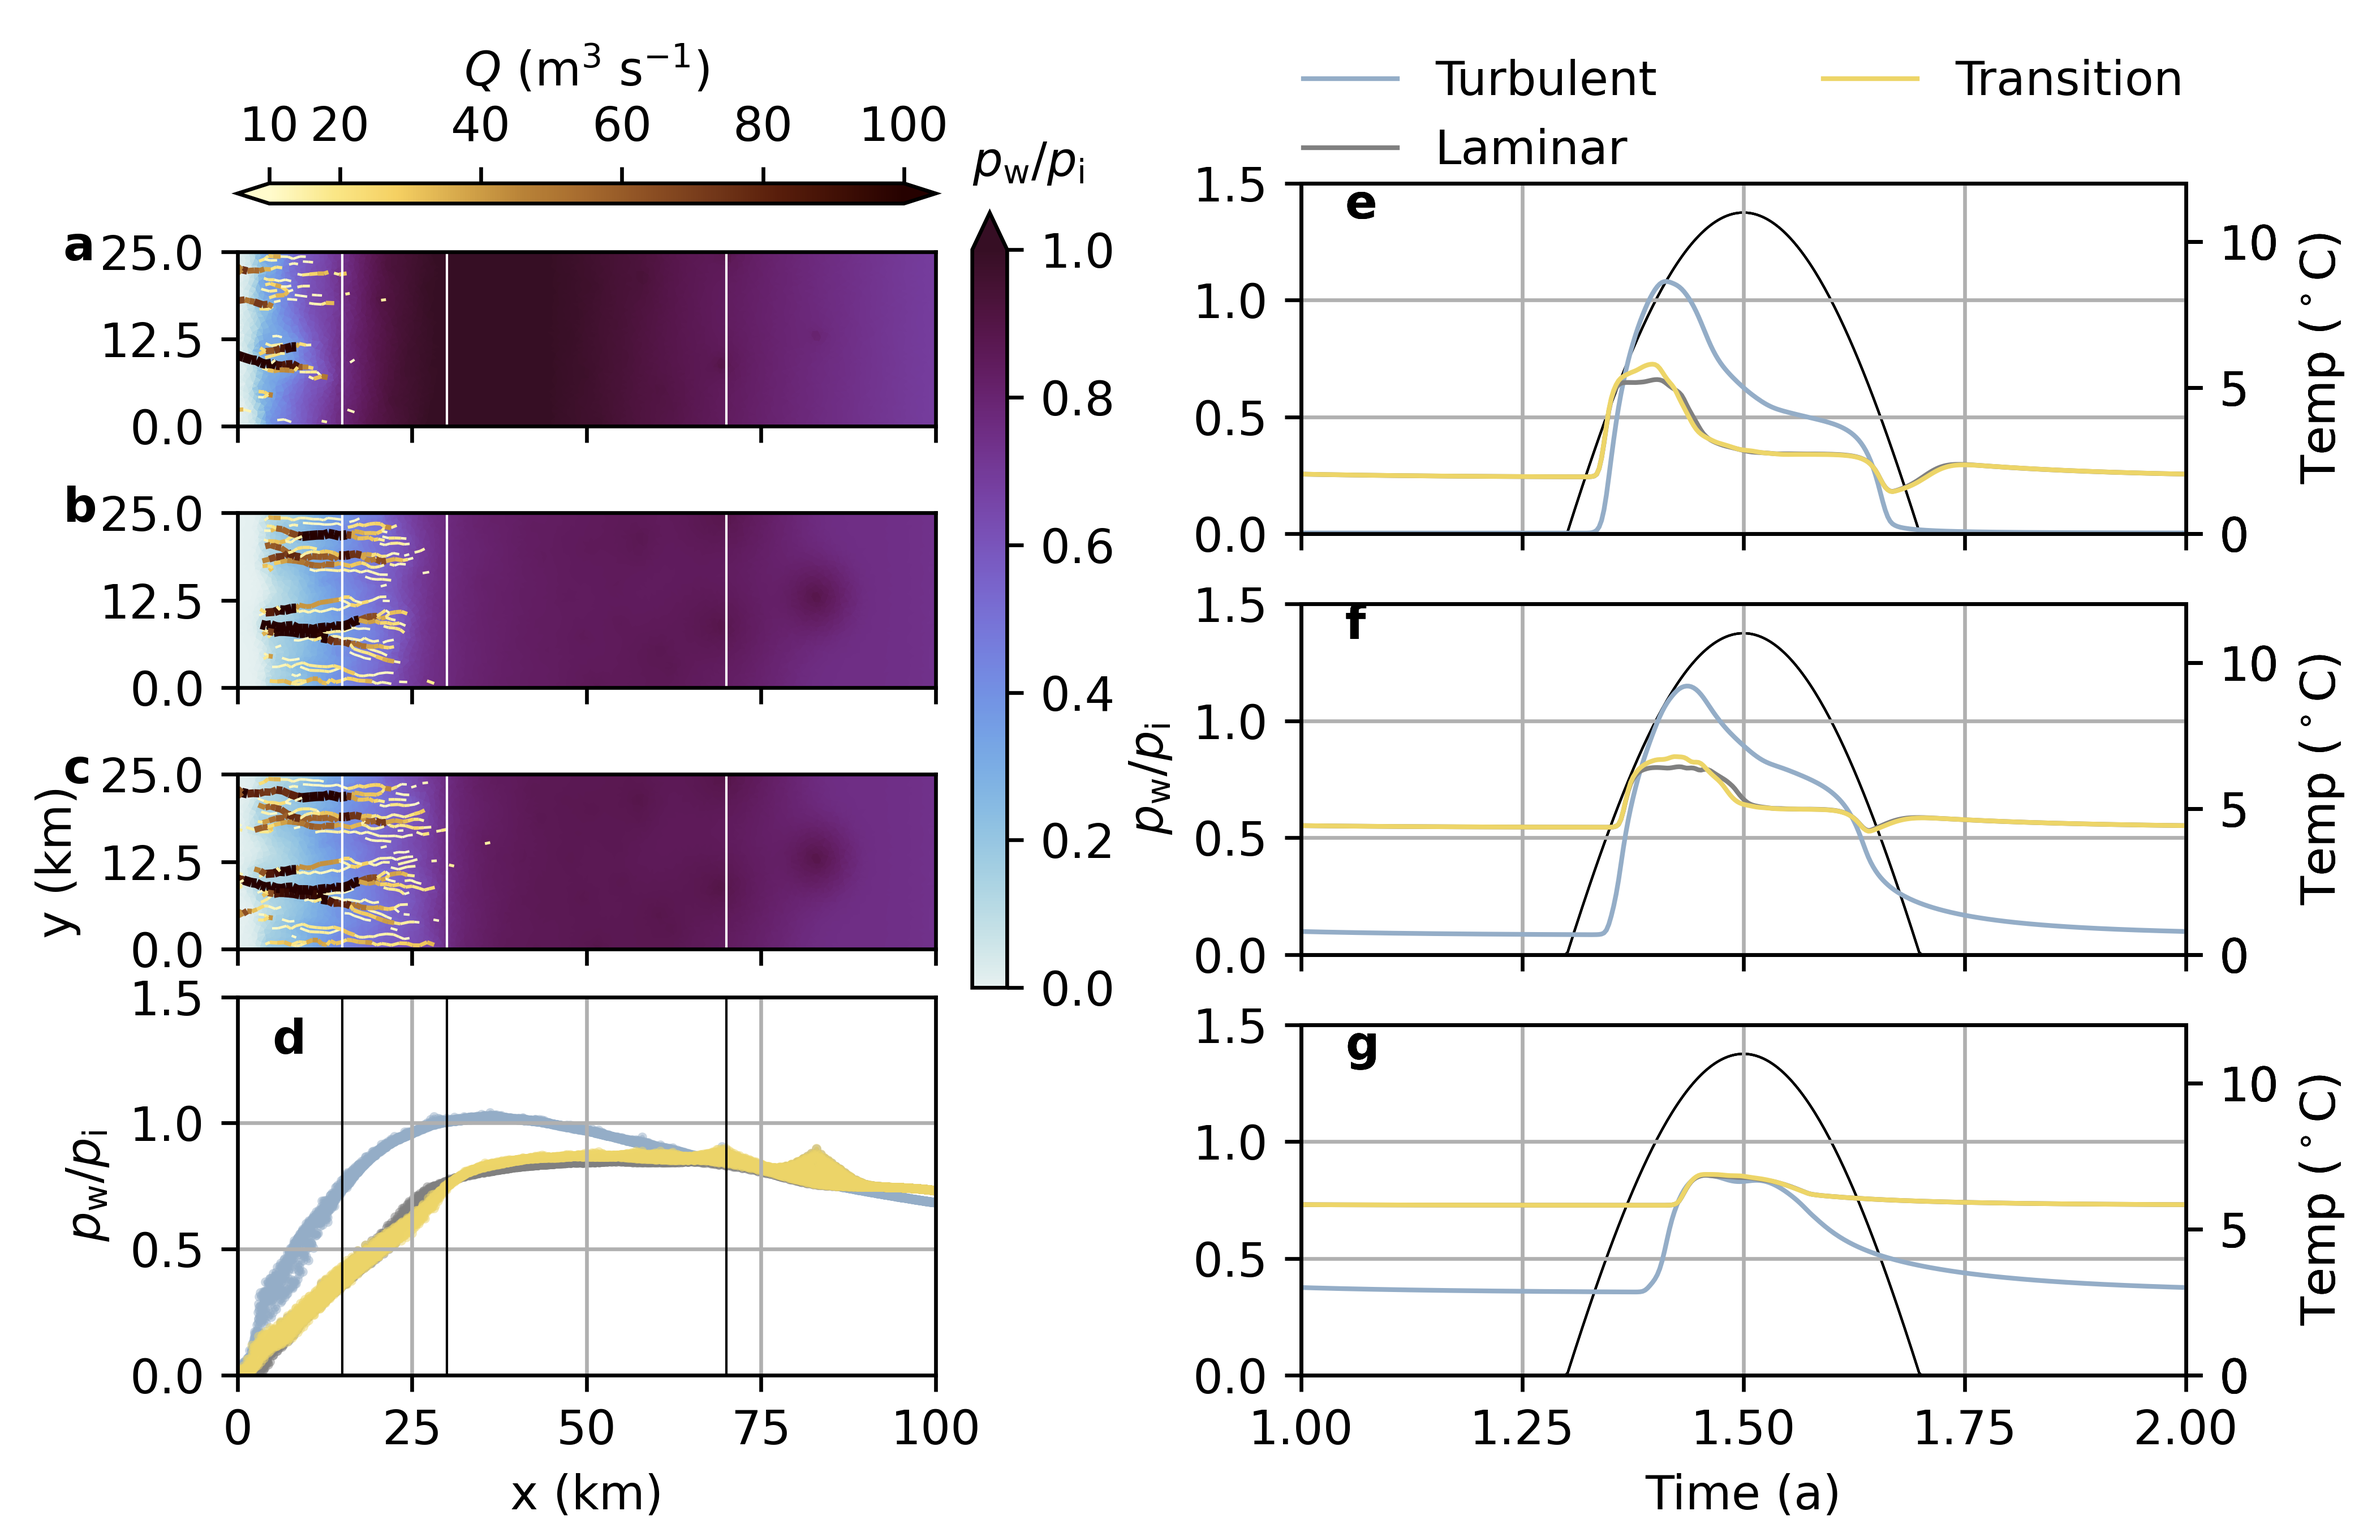
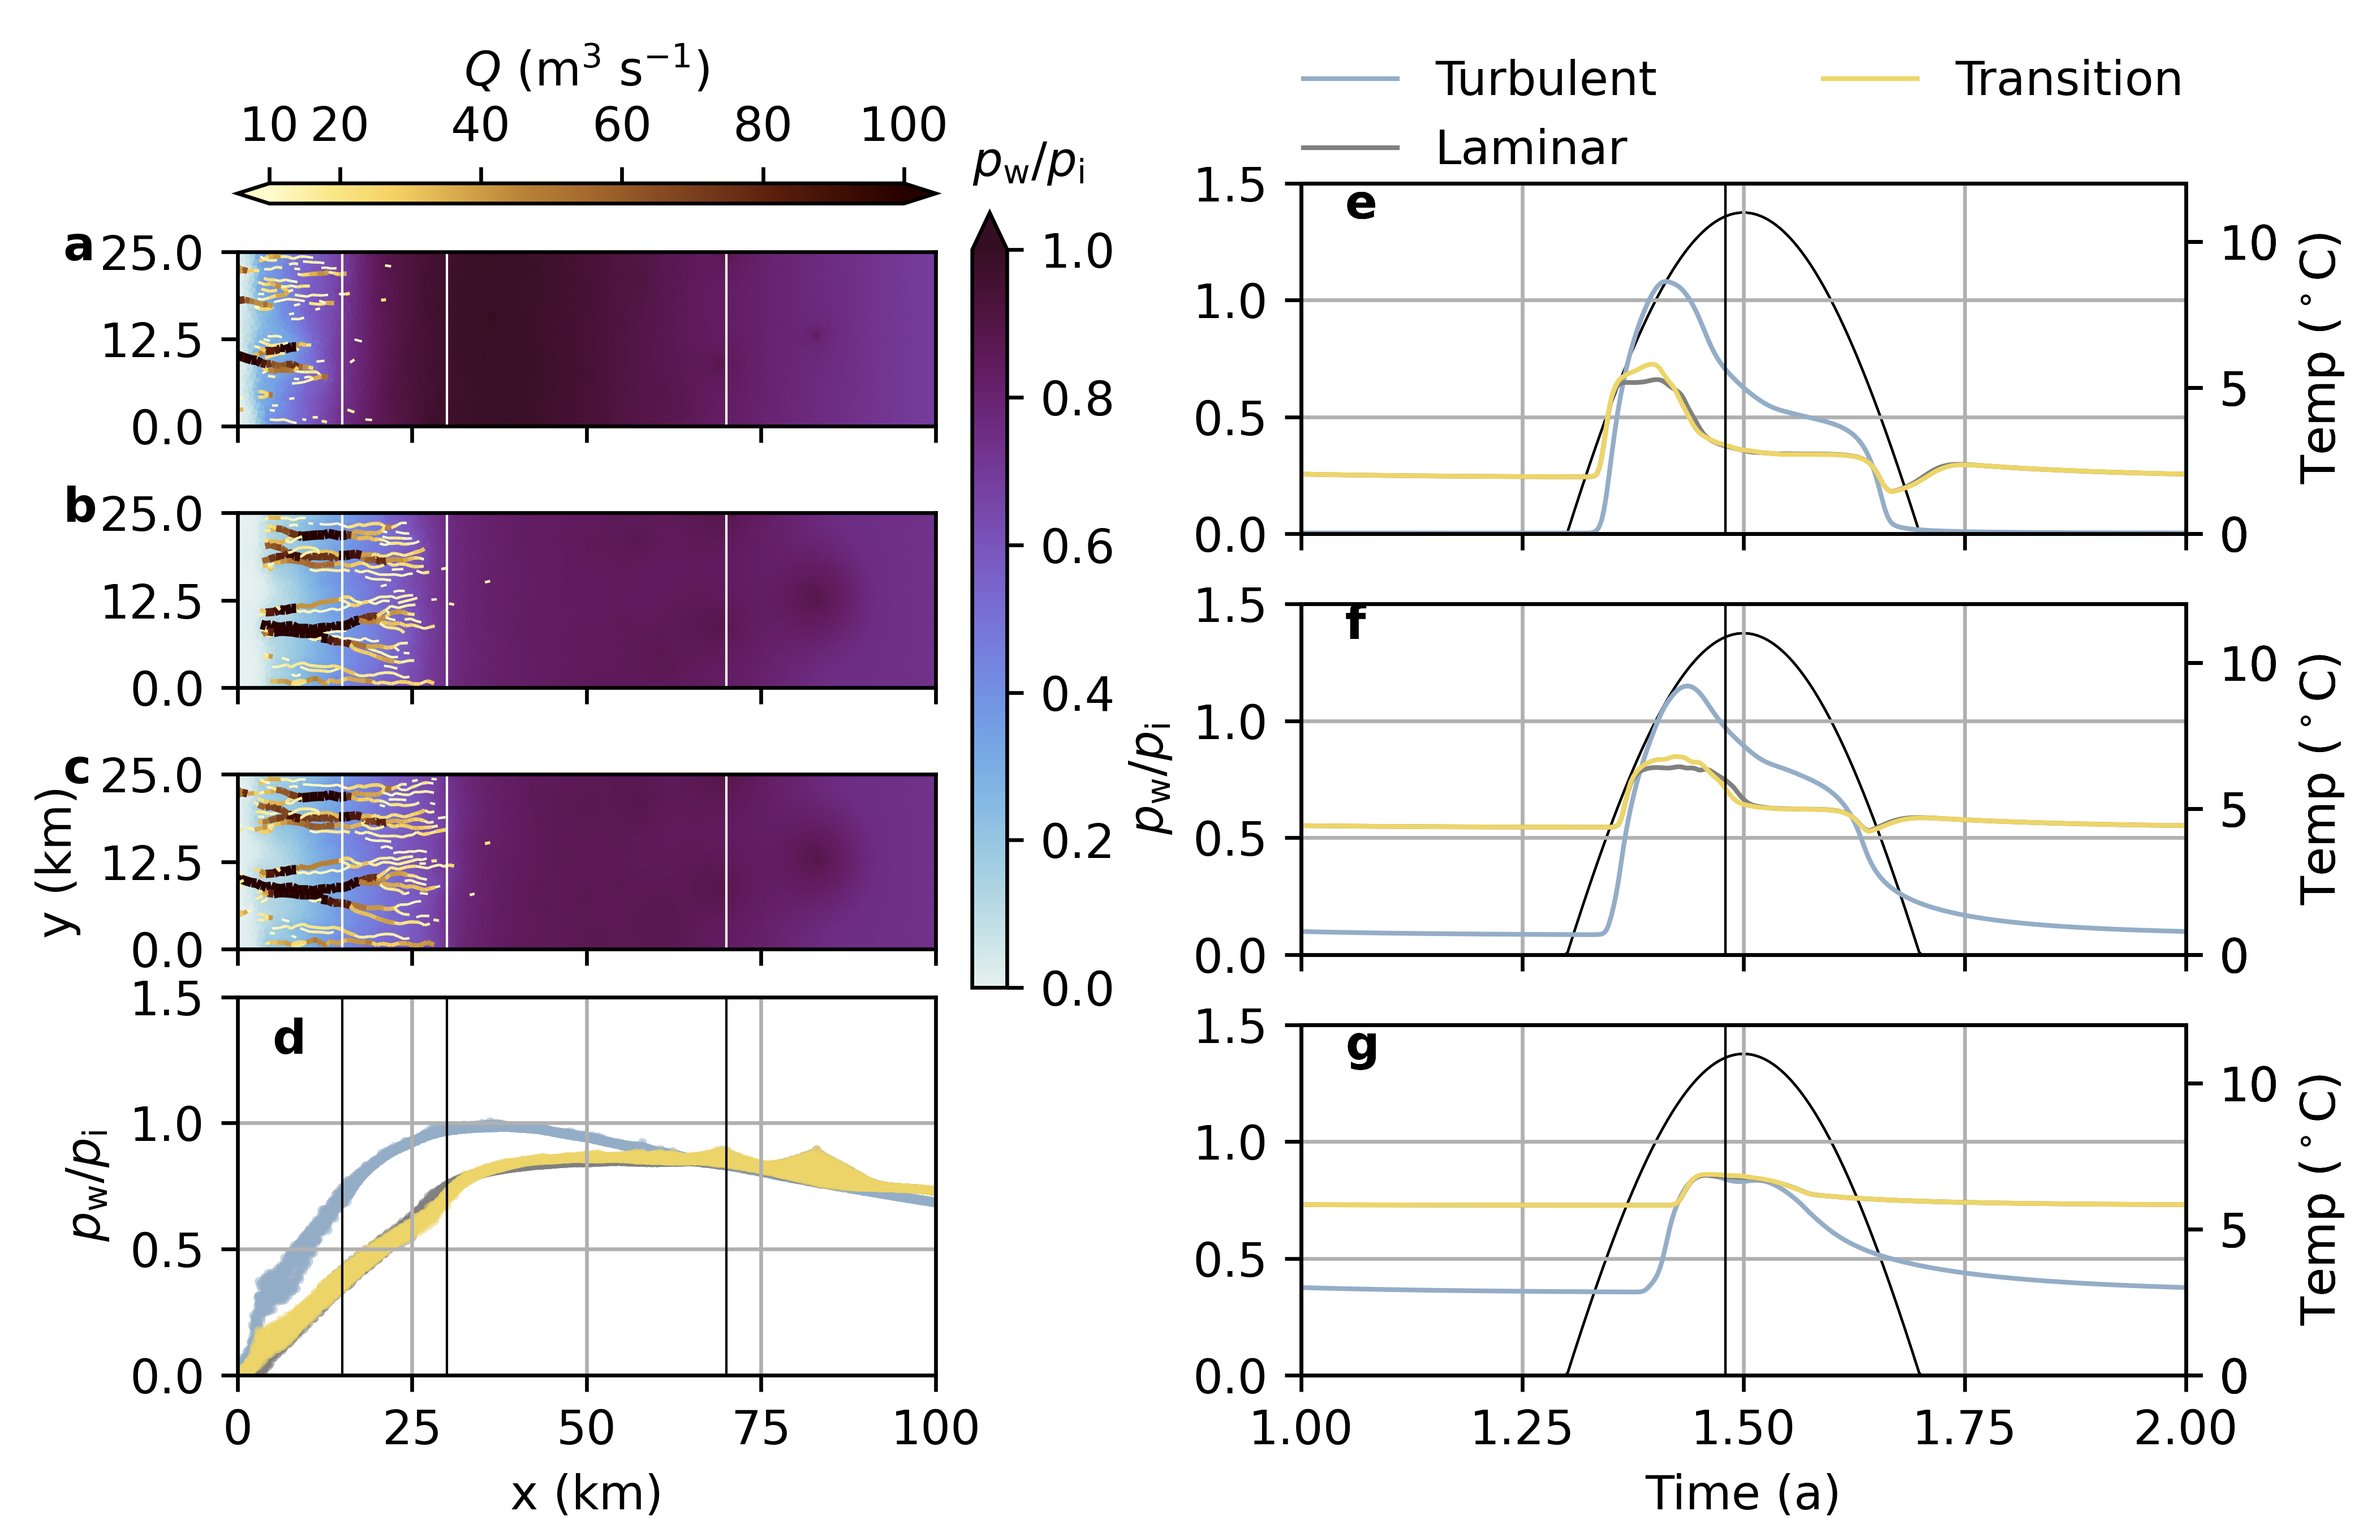
Add time slice to timeseries

diff --git a/glads/00_shmip_forcing_shmip_topo/analysis/plot_composite_reduced.py b/glads/00_shmip_forcing_shmip_topo/analysis/plot_composite_reduced.py
@@ -24,7 +24,7 @@ n_cases = len(cases)
 figname = 'SHMIP_seasonal_reduced.png'
 
 # Time slice for 2D snapshots
-tslice = 172
+tslice = 175 + 365
 
 # X bands for timeseries
 x_bands = [15, 30, 70]
